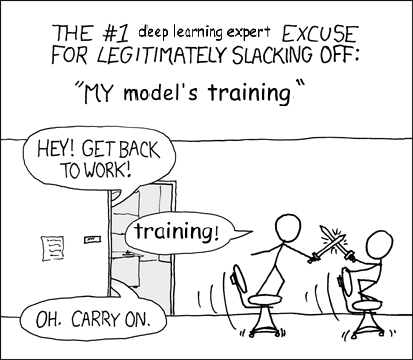
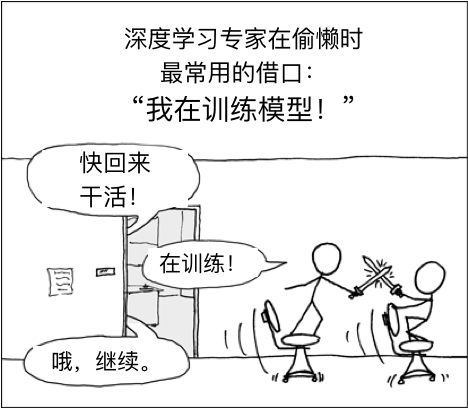
opt, makefile, utils

diff --git a/utils.py b/utils.py
@@ -343,3 +343,6 @@ def train_and_predict_rnn(rnn, is_random_iter, epochs, num_steps, hidden_dim,
                       is_lstm))
             print()
 
+def set_fig_size(mpl, figsize=(3.5, 2.5)):
+    mpl.rcParams['figure.figsize'] = figsize
+

diff --git a/chapter_optimization/optimization-intro.md b/chapter_optimization/optimization-intro.md
@@ -1,28 +1,31 @@
-# 概述
+# 优化算法概述
 
 
-你也许会对我们用很大篇幅来介绍优化算法感到奇怪。如果你一直按照本教程的顺序读到这里，你很可能已经用了优化算法来训练模型并学出模型的参数，例如在训练模型时不断迭代参数以最小化损失函数。
+如果读者一直按照本书的顺序读到这里，很可能已经使用了优化算法来训练深度学习模型。具体来说，在训练模型时，我们会使用优化算法不断迭代模型参数以最小化模型的损失函数。当迭代终止时，模型的训练随之终止。此时的模型参数就是模型通过训练所学习到的参数。
 
-优化算法对于深度学习十分重要。首先，实际中训练一个复杂的深度学习模型可能需要数小时、数日、甚至数周时间。而优化算法的效率直接影响模型训练效率。其次，深刻理解各种优化算法的原理以及其中各参数的意义将可以有助于我们更有针对性地调参，从而使深度学习模型表现地更好。
+优化算法对于深度学习十分重要。一方面，如图7.1所表现的那样，训练一个复杂的深度学习模型可能需要数小时、数日、甚至数周时间。而优化算法的表现直接影响模型训练效率。另一方面，理解各种优化算法的原理以及其中各参数的意义将有助于我们更有针对性地调参，从而使深度学习模型表现地更好。
 
+本章将详细介绍深度学习中的常用优化算法。
 
-本章将详细介绍深度学习中的一些常用优化算法。
+![漫画：训练深度学习模型](../img/training_model.png)
 
-![](../img/training_model.png)
+## 优化与深度学习
 
+在一个深度学习问题中，通常我们会预先定义一个损失函数。有了损失函数以后，我们就可以使用优化算法试图使其最小化。在优化中，这样的损失函数通常被称作优化问题的目标函数（objective function）。依据惯例，优化算法通常只考虑最小化目标函数。其实，任何最大化问题都可以很容易地转化为最小化问题：我们只需把目标函数前面的正号或负号取相反。
 
-## 优化与机器学习
+虽然优化为深度学习提供了最小化损失函数的方法，但本质上，这两者之间的目标是有区别的。
+在[欠拟合和过拟合](../chapter_supervised-learning/underfit-overfit.md)一节中，我们区分了训练误差和泛化误差。
+由于优化算法的目标函数通常是一个基于训练数据集的损失函数，优化的目标在于降低训练误差。
+而深度学习的目标在于降低泛化误差。
+为了降低泛化误差，除了使用优化算法降低训练误差以外，我们还需要注意应对过拟合。
 
-在一个机器学习的问题中，我们会预先定义一个损失函数，然后用优化算法来最小化这个损失函数。在优化中，这样的损失函数通常被称作优化问题的**目标函数**。依据惯例，优化算法通常只考虑最小化目标函数。任何最大化问题都可以很容易地转化为最小化问题：我们只需把目标函数前面的符号翻转一下。
+本章中，我们只关注优化算法在最小化目标函数上的表现，而不关注模型的泛化误差。
 
-在机器学习中，优化算法的目标函数通常是一个基于训练数据集的损失函数。因此，优化往往对应降低训练误差。而机器学习的主要目标在于降低泛化误差，例如应用一些应对过拟合的技巧。在本章针对优化算法的实验中，我们只关注优化算法在最小化目标函数上的表现。
+## 优化在深度学习中的挑战
 
+绝大多数深度学习中的目标函数都很复杂。因此，很多优化问题并不存在解析解，而需要使用基于数值方法的优化算法找到近似解。这类优化算法一般通过不断迭代更新解的数值来找到近似解。我们讨论的优化算法都是这类基于数值方法的算法。
 
-## 优化问题的挑战
-
-绝大多数深度学习中的目标函数都很复杂。因此，很多优化问题并不存在显示解（解析解），而需要使用基于数值方法的优化算法找到近似解。这类优化算法一般通过不断迭代更新解的数值来找到近似解。我们讨论的优化都是这类基于数值方法的算法。
-
-以下我们列举优化问题中的两个挑战：局部最小值和鞍点。
+优化在深度学习中有很多挑战。以下列举了其中的两个挑战：局部最小值和鞍点。
 
 
 ### 局部最小值
@@ -36,18 +39,27 @@ $$f(x) = x \cdot \text{cos}(\pi x), \qquad -1.0 \leq x \leq 2.0.$$
 的局部最小值和全局最小值。
 
 ```{.python .input  n=1}
-import numpy as np
+%matplotlib inline
+%config InlineBackend.figure_format = 'retina'
+import matplotlib as mpl
 import matplotlib.pyplot as plt
+import numpy as np
+import sys
+sys.path.append('..')
+import utils
+```
 
+```{.python .input  n=2}
 def f(x):
     return x * np.cos(np.pi * x)
 
+utils.set_fig_size(mpl, (4.5, 2.5))
 x = np.arange(-1.0, 2.0, 0.1)
 fig = plt.figure()
 subplt = fig.add_subplot(111)
-subplt.annotate('local minimum', xy=(-0.3, -0.2), xytext=(-0.8, -1.0),
+subplt.annotate('local minimum', xy=(-0.3, -0.25), xytext=(-0.77, -1.0),
             arrowprops=dict(facecolor='black', shrink=0.05))
-subplt.annotate('global minimum', xy=(1.1, -0.9), xytext=(0.7, 0.1),
+subplt.annotate('global minimum', xy=(1.1, -0.9), xytext=(0.6, 0.8),
             arrowprops=dict(facecolor='black', shrink=0.05))
 plt.plot(x, f(x))
 plt.xlabel('x')
@@ -62,11 +74,11 @@ plt.show()
 
 刚刚我们提到梯度接近或变成零可能是由于当前解在局部最优解附近所造成的。事实上，另一种可能性是当前解在鞍点附近。下图展示了定义在一维空间的函数$f(x) = x^3$的鞍点。
 
-```{.python .input  n=2}
+```{.python .input  n=3}
 x = np.arange(-2.0, 2.0, 0.1)
 fig = plt.figure()
 subplt = fig.add_subplot(111)
-subplt.annotate('saddle point', xy=(0, -0.2), xytext=(-0.4, -5.0), 
+subplt.annotate('saddle point', xy=(0, -0.2), xytext=(-0.52, -5.0), 
             arrowprops=dict(facecolor='black', shrink=0.05))
 plt.plot(x, x**3)
 plt.xlabel('x')
@@ -76,10 +88,8 @@ plt.show()
 
 下图展示了定义在二维空间的函数$f(x, y) = x^2 - y^2$的鞍点。该函数看起来像一个马鞍，鞍点恰好是可以坐的区域的中心。
 
-```{.python .input  n=3}
-import numpy as np
+```{.python .input  n=4}
 from mpl_toolkits.mplot3d import Axes3D
-import matplotlib.pyplot as plt
 
 fig = plt.figure()
 ax = fig.add_subplot(111, projection='3d')
@@ -87,7 +97,7 @@ x, y = np.mgrid[-1:1:31j, -1:1:31j]
 z = x**2 - y**2
 ax.plot_surface(x, y, z, **{'rstride': 1, 'cstride': 1, 'cmap': "Greens_r"})
 ax.plot([0], [0], [0], 'ro')
-ax.view_init(azim=-60, elev=20)
+ax.view_init(azim=-50, elev=20)
 plt.xticks([-1, -0.5, 0, 0.5, 1])
 plt.yticks([-1, -0.5, 0, 0.5, 1])
 ax.set_zticks([-1, -0.5, 0, 0.5, 1])
@@ -99,7 +109,7 @@ plt.show()
 事实上，由于大多数深度学习模型参数都是高维的，目标函数的鞍点往往比局部最小值更常见。
 
 
-## 结论
+## 小结
 
 深度学习中，虽然找到目标函数的全局最优解很难，但这并非必要。我们将在接下来的章节中逐一介绍深度学习中常用的优化算法，它们在很多实际问题中都训练出了十分有效的深度学习模型。
 

diff --git a/chapter_optimization/gd-sgd-scratch.md b/chapter_optimization/gd-sgd-scratch.md
@@ -162,11 +162,13 @@ def square_loss(yhat, y):
 
 ```{.python .input  n=3}
 %matplotlib inline
-import matplotlib as mpl
 %config InlineBackend.figure_format = 'retina'
-
+import matplotlib as mpl
 import matplotlib.pyplot as plt
 import numpy as np
+import sys
+sys.path.append('..')
+import utils
 
 def train(batch_size, lr, epochs, period):
     assert period >= batch_size and period % batch_size == 0
@@ -191,7 +193,7 @@ def train(batch_size, lr, epochs, period):
     print('w:', np.reshape(w.asnumpy(), (1, -1)), 
           'b:', b.asnumpy()[0], '\n')
     x_axis = np.linspace(0, epochs, len(total_loss), endpoint=True)
-    mpl.rcParams['figure.figsize'] = 3.5, 2.5
+    utils.set_fig_size(mpl)
     plt.semilogy(x_axis, total_loss)
     plt.xlabel('epoch')
     plt.ylabel('loss')
